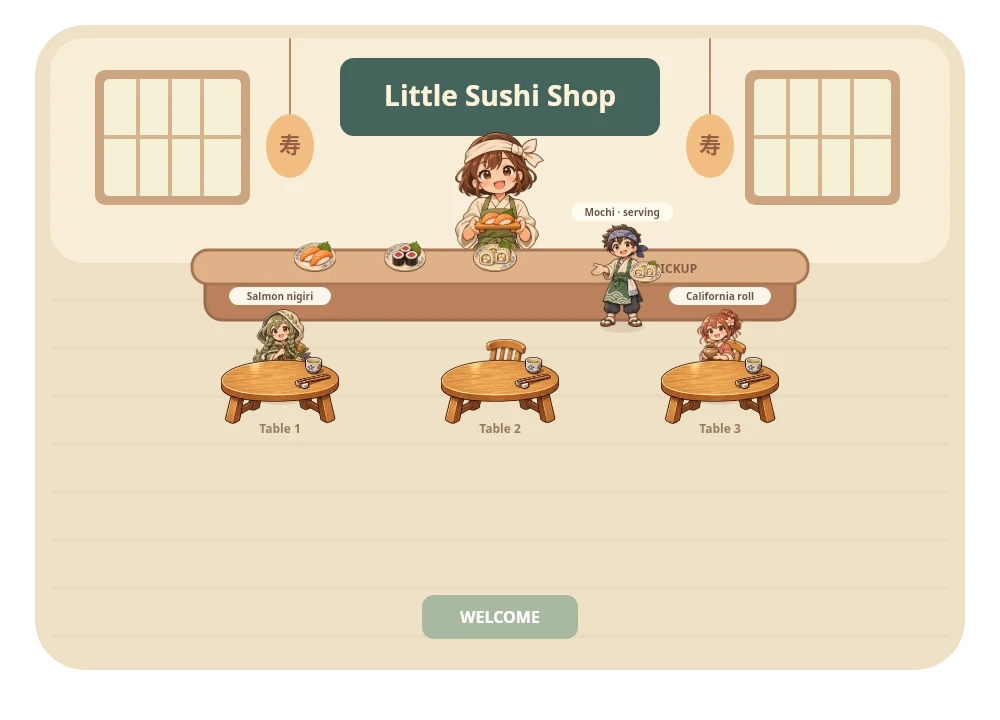
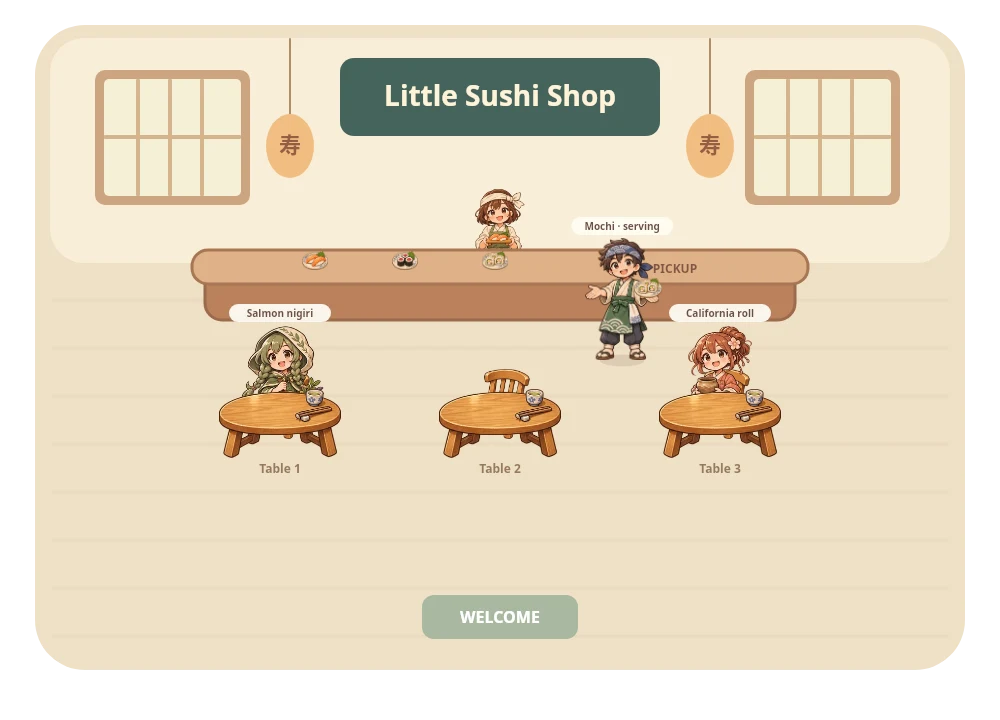
Unify character proportions and layer service around dining tables

diff --git a/src/main.ts b/src/main.ts
@@ -17,7 +17,7 @@ $('pause').onclick = () => { sim.paused = !sim.paused; $('pause').textContent = 
 $('speed').onclick = () => { speed = speed === 1 ? 3 : 1; $('speed').textContent = `${speed}× speed`; };
 $('restart').onclick = () => { sim = new Simulation(); drawn.clear(); $('pause').textContent = 'Pause'; };
 $('upgrade').onclick = () => sim.buyUpgrade();
-const world = (p: Point) => ({ x: 115 + p.x * 55, y: 190 + p.y * 40 });
+const world = (p: Point) => ({ x: 115 + p.x * 55, y: 190 + p.y * 40 + 40 * Math.sin(Math.PI * Math.min(p.y, 10) / 10) });
 function round(x: number, y: number, w: number, h: number, r: number, fill: string, stroke?: string) {
   ctx.beginPath(); ctx.roundRect(x, y, w, h, r); ctx.fillStyle = fill; ctx.fill();
   if (stroke) { ctx.strokeStyle = stroke; ctx.lineWidth = 3; ctx.stroke(); }
@@ -35,6 +35,10 @@ const sprites = {
 } as const;
 const guests = ['courier', 'mapmaker', 'potter'] as const;
 const dishes = ['salmon', 'tuna', 'california'] as const;
+// Canvas units at the dining tables. The chef artwork is a waist-up portrait.
+const adultHeight = 128;
+const depthScale = (floorY: number) => 1 + (floorY - 430) / 1800;
+const plateHeight = 21;
 function sprite(name: keyof typeof sprites, x: number, bottom: number, height: number) {
   if (!atlas.complete || !atlas.naturalWidth) return;
   const [sx, sy, sw, sh] = sprites[name];
@@ -47,10 +51,18 @@ function character(id: string, position: Point, art: keyof typeof sprites, label
   drawn.set(id, { x, y });
   const moving = Math.hypot(target.x - x, target.y - y) > 1;
   const bob = Math.sin(sim.ticks * (moving ? 0.7 : 0.18) + target.x) * (moving ? 2.2 : 0.7);
-  const bottom = y + (seated ? 10 : 8);
-  const height = seated ? 91 : 103;
-  ellipse(x, bottom - 1, 22, 6, '#614a3a22');
+  const height = adultHeight * depthScale(y);
+  // Lower the hips onto the cushion while preserving the size of the head.
+  const bottom = y + (seated ? 24 : 8);
+  if (!seated) ellipse(x, bottom - 1, 22, 6, '#614a3a22');
+  ctx.save();
+  if (seated) {
+    ctx.beginPath();
+    ctx.rect(x - height / 2, bottom - height - 4, height, height * 0.72);
+    ctx.clip();
+  }
   sprite(art, x, bottom + bob, height);
+  ctx.restore();
   round(x - 51, bottom - height - 22, 102, 18, 9, '#fffdf4ef');
   text(label, x, bottom - height - 9, 10);
 }
@@ -64,42 +76,48 @@ function render() {
   round(340, 58, 320, 78, 14, '#46645c'); text('Little Sushi Shop', 500, 106, 28, '#fff3d8');
   for (const x of [290, 710]) { round(x - 1, 38, 2, 88, 1, '#ae8d66'); ellipse(x, 146, 24, 32, '#f1bd81'); text('寿', x, 153, 22, '#945e44'); }
   if (hana.complete && hana.naturalWidth) {
-    const height = 120;
+    const height = adultHeight * depthScale(260) * 0.58;
     const width = height * hana.naturalWidth / hana.naturalHeight;
     const bob = sim.chef ? Math.sin(sim.ticks * 0.36) * 2 : 0;
-    ctx.drawImage(hana, 500 - width / 2, 254 - height + bob, width, height);
+    ctx.drawImage(hana, 500 - width / 2, 258 - height + bob, width, height);
   }
   round(205, 265, 590, 55, 17, '#bb815c', '#9c6a4d'); round(192, 250, 616, 34, 16, '#dfb187', '#a87754');
-  for (let i = 0; i < 3; i++) sprite(dishes[i], 315 + i * 90, 272, 31);
+  for (let i = 0; i < 3; i++) sprite(dishes[i], 315 + i * 90, 270, plateHeight * depthScale(260));
   text('PICKUP', 675, 273, 12, '#805744');
+  round(422, 595, 156, 44, 12, '#a8b8a0'); text('WELCOME', 500, 623, 16, '#ffffff');
+  const layers: { y: number; draw: () => void }[] = [];
   for (const [index, seat] of sim.seats.entries()) {
     const p = world(seat.position);
-    sprite('chair', p.x, p.y + 10, 61);
-    const c = sim.customers.find(c => c.id === seat.owner);
-    if (c && (c.state === 'waiting' || c.state === 'eating')) {
-      character(String(c.id), c.position, guests[(c.id - 1) % guests.length],
-        c.state === 'waiting' ? recipes[c.recipe].name : 'So delicious!', true);
-    }
-    sprite('table', p.x, p.y + 34, 67);
-    if (c?.state === 'eating') sprite(dishes[c.recipe], p.x - 10, p.y - 7, 24);
-    else if (seat.dirty) ellipse(p.x - 10, p.y - 12, 15, 5, '#eee5d7');
-    text(seat.dirty ? 'Cleaning soon' : `Table ${index + 1}`, p.x, p.y + 43, 12, '#96795e');
+    layers.push({ y: p.y + 12, draw: () => {
+      sprite('chair', p.x, p.y + 9, 70);
+      const c = sim.customers.find(c => c.id === seat.owner);
+      if (c && (c.state === 'waiting' || c.state === 'eating')) {
+        character(String(c.id), c.position, guests[(c.id - 1) % guests.length],
+          c.state === 'waiting' ? recipes[c.recipe].name : 'So delicious!', true);
+      }
+      sprite('table', p.x, p.y + 28, 69);
+      if (c?.state === 'eating') sprite(dishes[c.recipe], p.x - 10, p.y - 12, plateHeight);
+      else if (seat.dirty) ellipse(p.x - 10, p.y - 12, 15, 5, '#eee5d7');
+      text(seat.dirty ? 'Cleaning soon' : `Table ${index + 1}`, p.x, p.y + 43, 12, '#96795e');
+    } });
   }
-  round(422, 595, 156, 44, 12, '#a8b8a0'); text('WELCOME', 500, 623, 16, '#ffffff');
   for (const [index, guest] of sim.arrivals.entries()) {
-    character(`line-${guest.id}`, { x: 10.6 + index * 1.55, y: 10.6 }, guests[(guest.id - 1) % guests.length], `Waiting · ${index + 1}`);
+    layers.push({ y: world({ x: 0, y: 10.6 }).y, draw: () => character(`line-${guest.id}`, { x: 10.6 + index * 1.55, y: 10.6 }, guests[(guest.id - 1) % guests.length], `Waiting · ${index + 1}`) });
   }
-  for (const c of [...sim.customers].sort((a, b) => a.position.y - b.position.y)) {
+  for (const c of sim.customers) {
     if (c.state === 'walking' || c.state === 'leaving')
-      character(String(c.id), c.position, guests[(c.id - 1) % guests.length], c.personality);
+      layers.push({ y: world(c.position).y, draw: () => character(String(c.id), c.position, guests[(c.id - 1) % guests.length], c.personality) });
   }
   const task = sim.server.task;
-  character('server', sim.server.position, 'server', task?.kind === 'clean' ? 'Mochi · tidying' : task ? 'Mochi · serving' : 'Mochi · ready');
-  if (task?.kind === 'deliver' && sim.server.phase === 'target') {
-    const customer = sim.customers.find(c => c.id === task.target);
-    const hand = drawn.get('server')!;
-    if (customer) sprite(dishes[customer.recipe], hand.x + 23, hand.y - 37, 23);
-  }
+  layers.push({ y: world(sim.server.position).y, draw: () => {
+    character('server', sim.server.position, 'server', task?.kind === 'clean' ? 'Mochi · tidying' : task ? 'Mochi · serving' : 'Mochi · ready');
+    if (task?.kind === 'deliver' && sim.server.phase === 'target') {
+      const customer = sim.customers.find(c => c.id === task.target);
+      const hand = drawn.get('server')!;
+      if (customer) sprite(dishes[customer.recipe], hand.x + 27 * depthScale(hand.y), hand.y + 8 - adultHeight * depthScale(hand.y) * 0.52, plateHeight * depthScale(hand.y));
+    }
+  } });
+  for (const layer of layers.sort((a, b) => a.y - b.y)) layer.draw();
   // Do not retain render positions for departed guests indefinitely.
   const live = new Set(['chef', 'server', ...sim.customers.map(c => String(c.id)), ...sim.arrivals.map(c => `line-${c.id}`)]);
   for (const id of drawn.keys()) if (!live.has(id)) drawn.delete(id);
